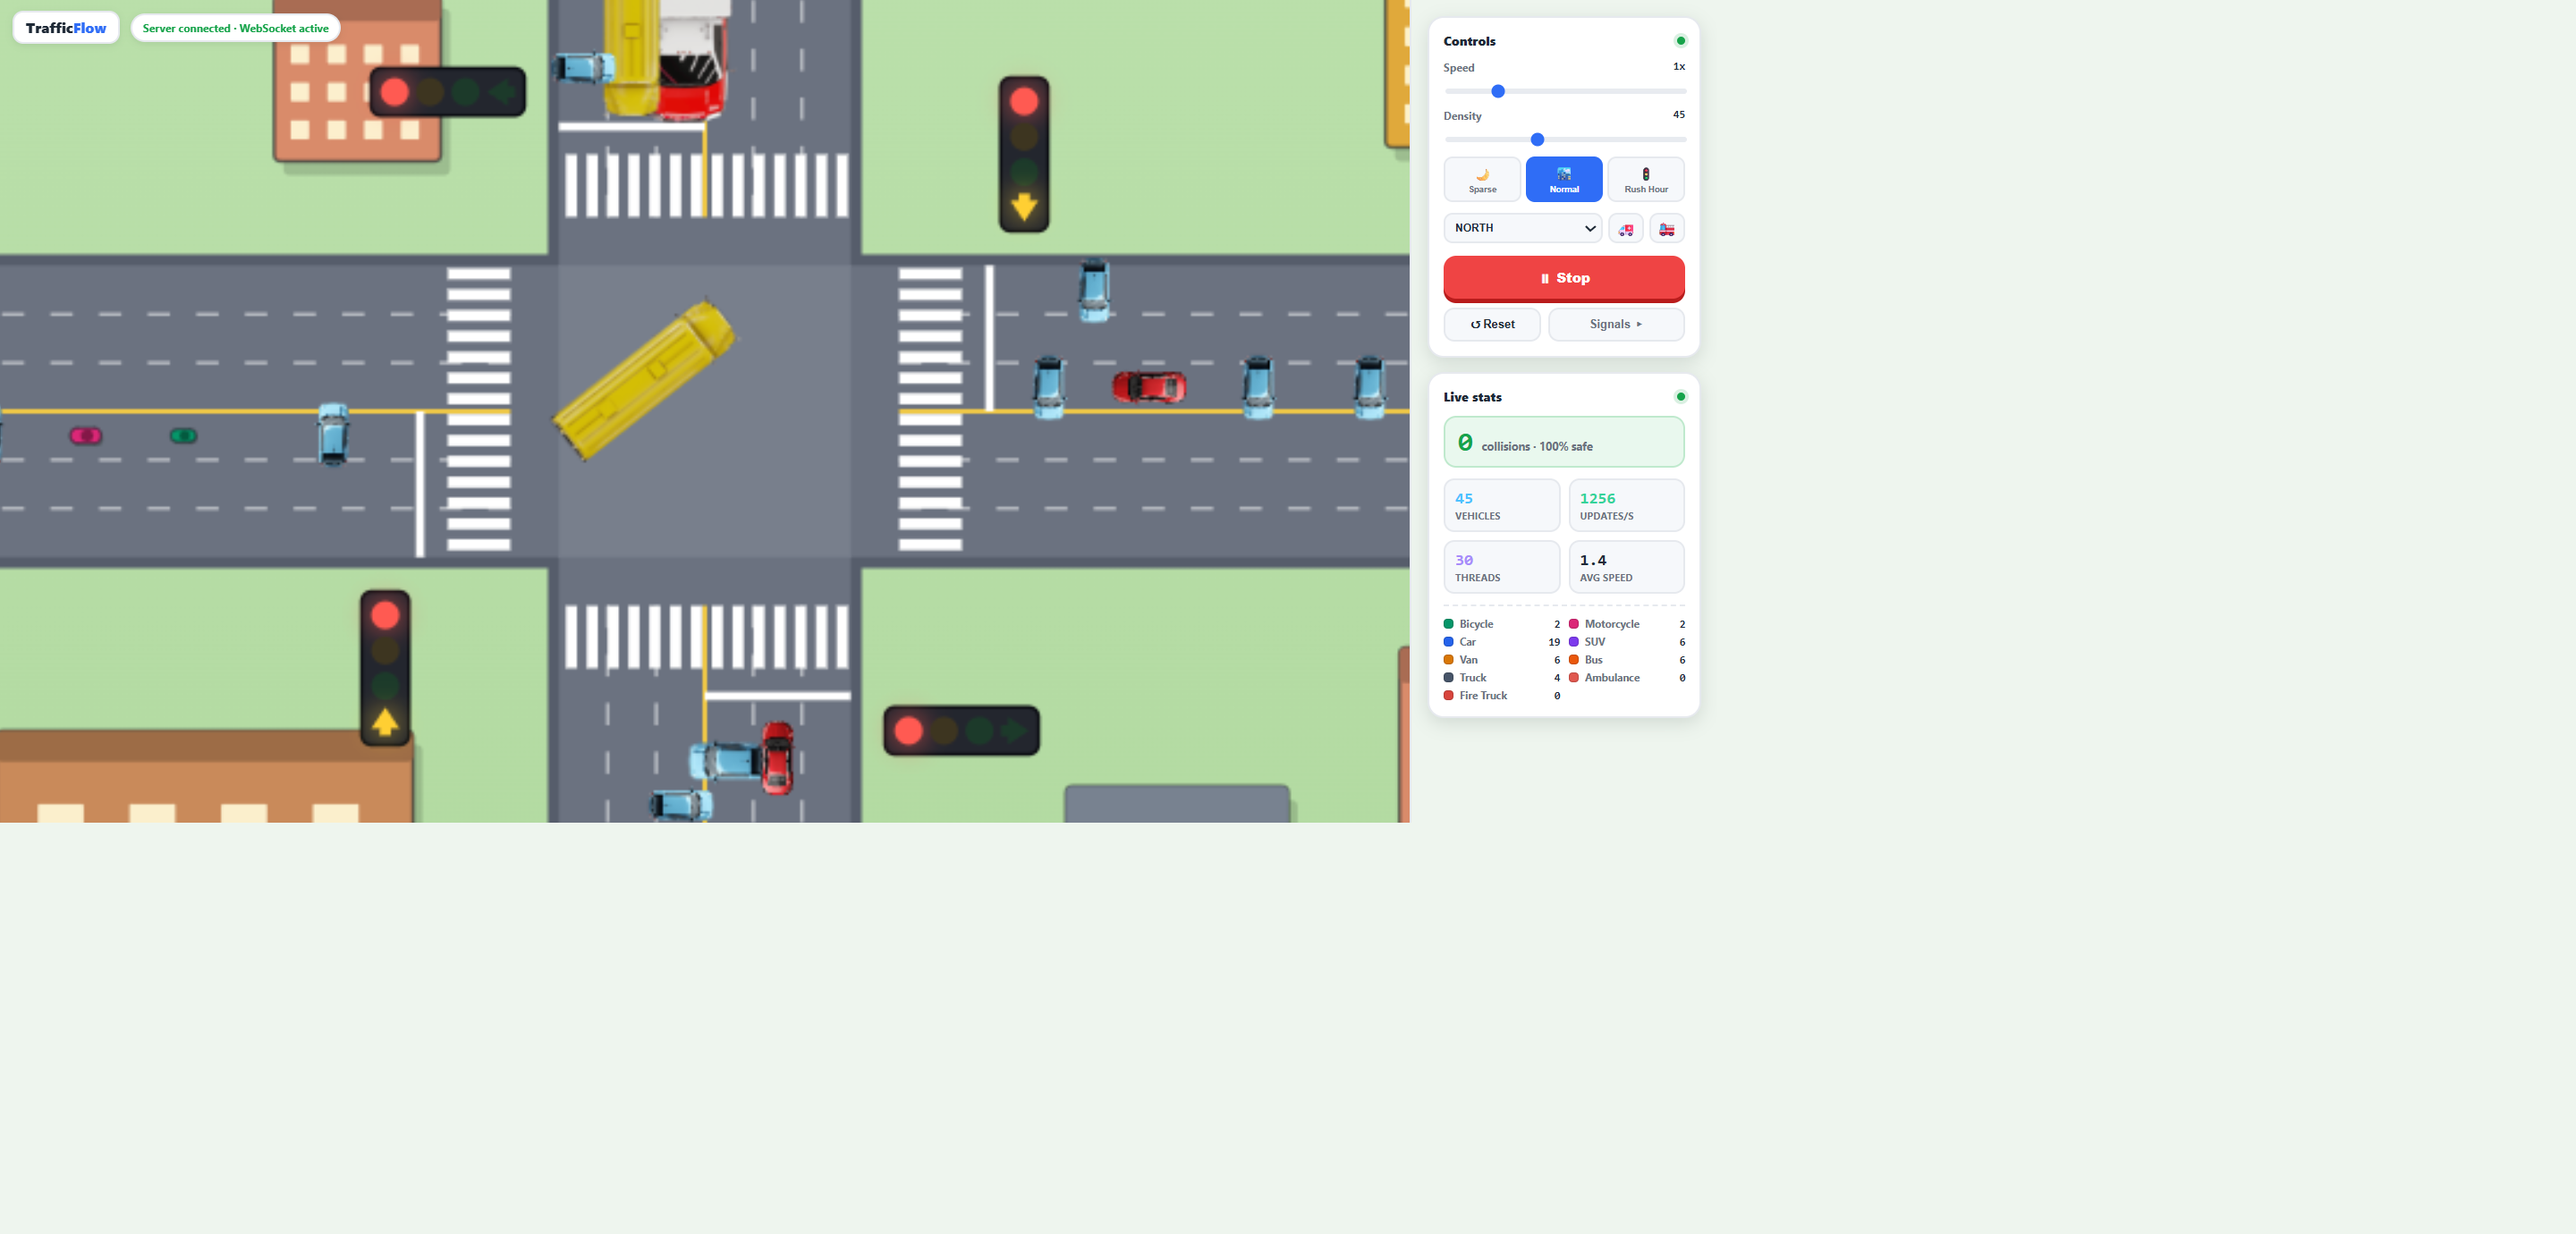
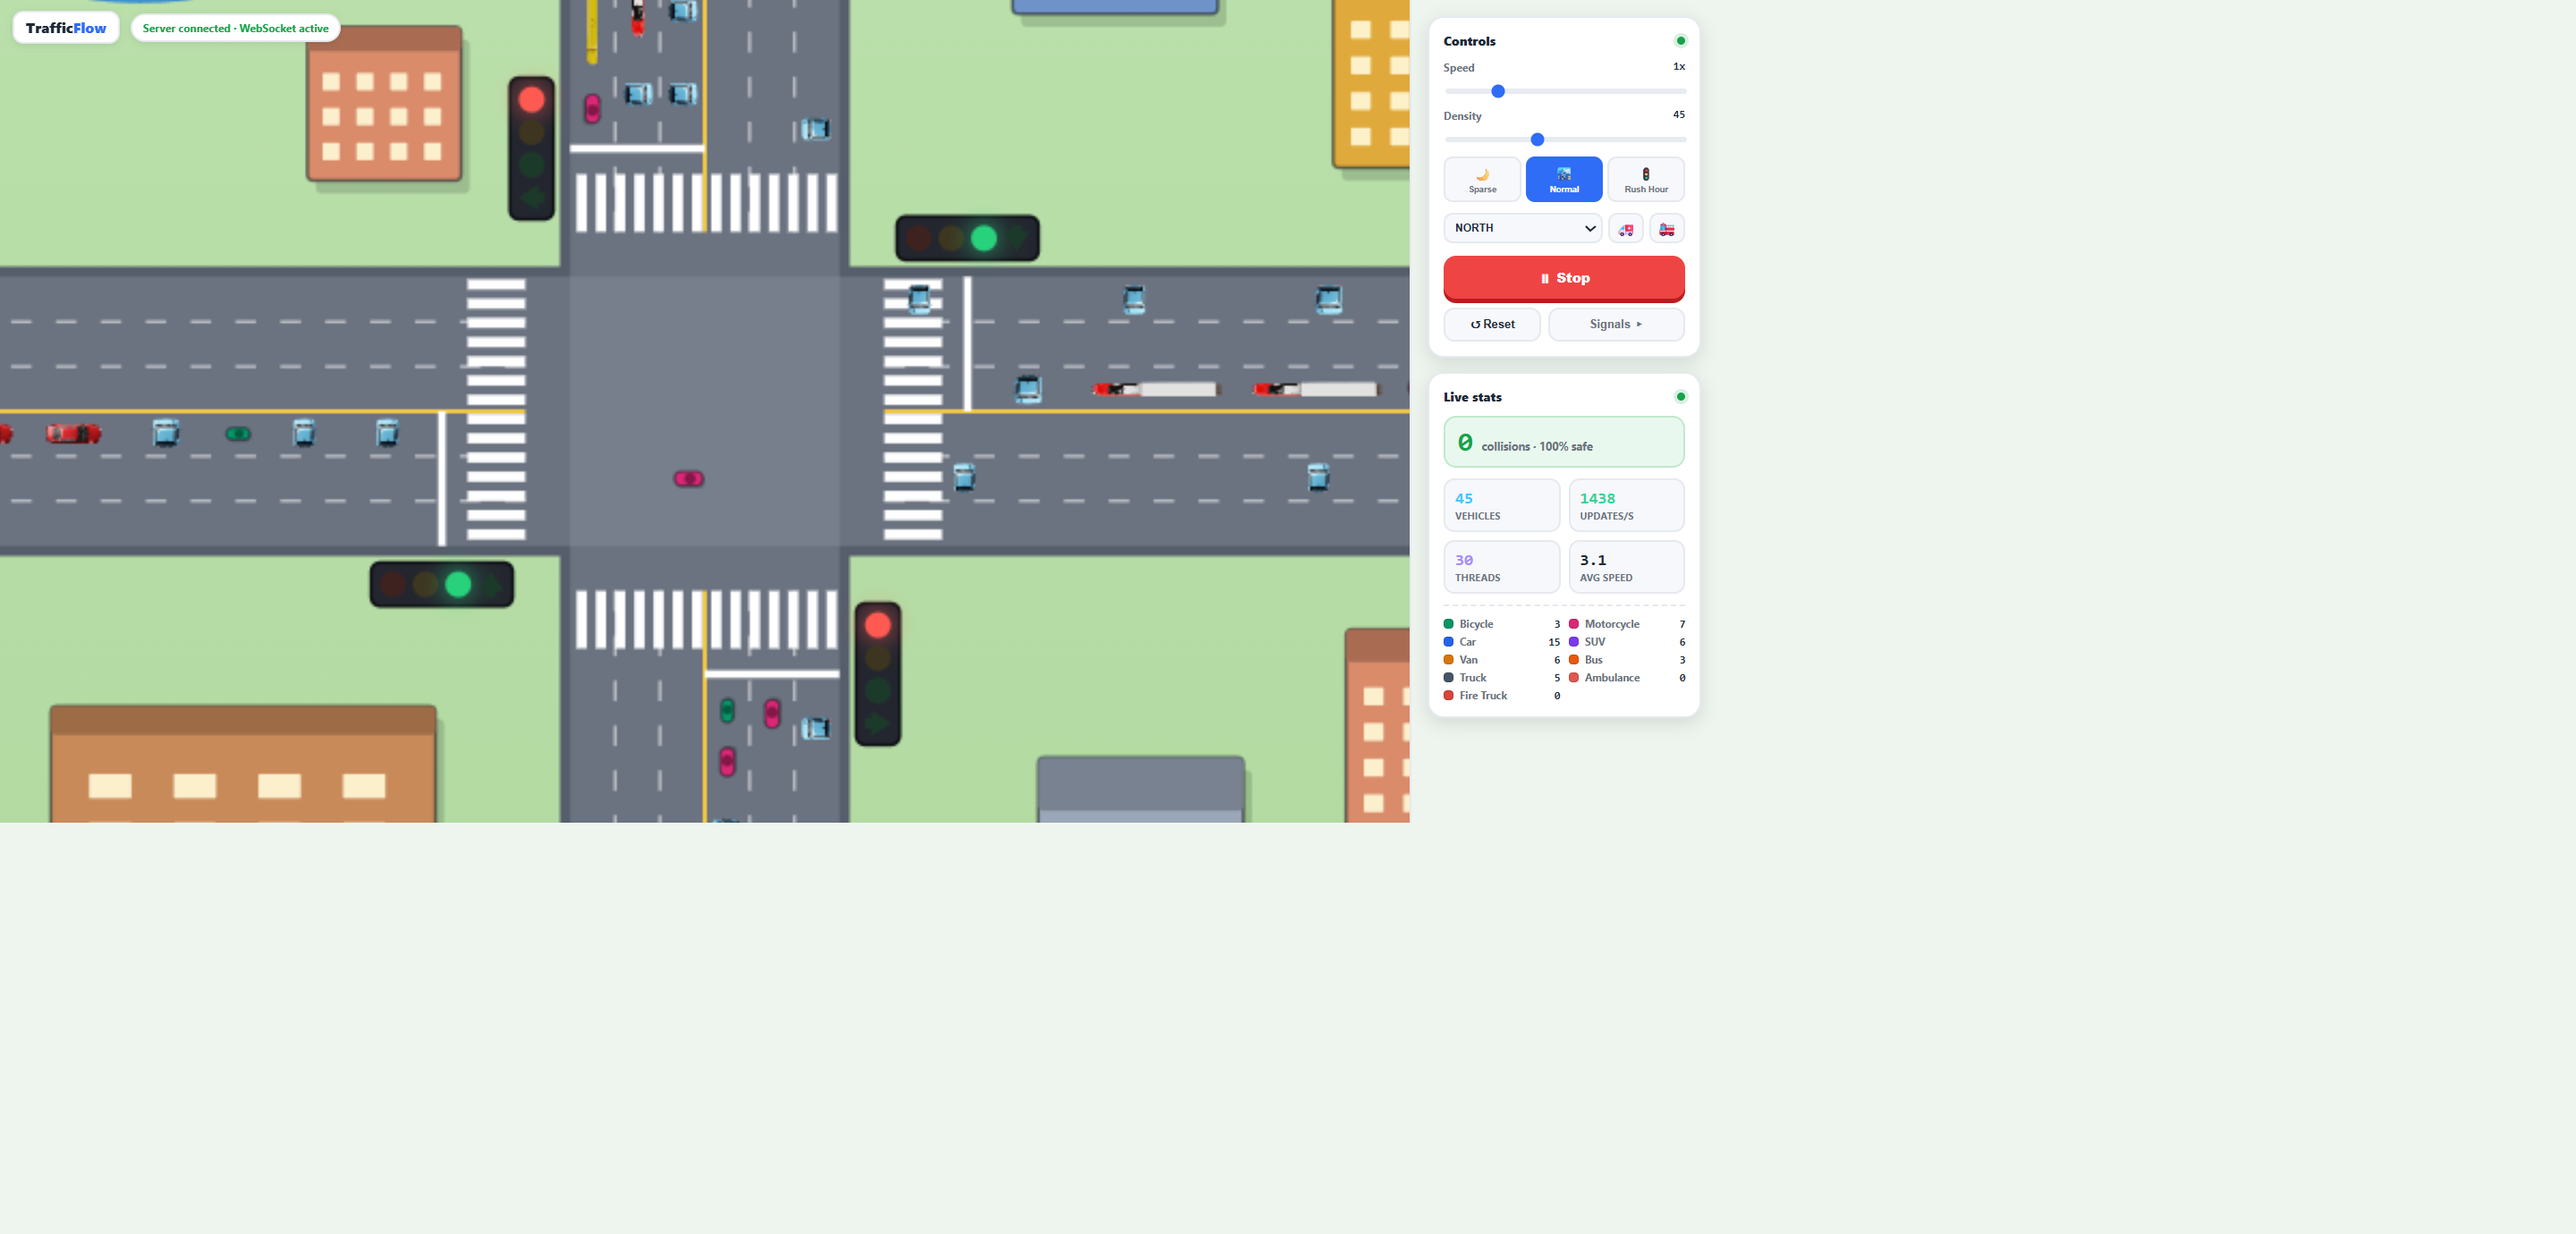
Shrink vehicles to fit one lane, lush scenery, livelier welcome
- Fix sprite sizing: fit lane width + fill the front-to-rear slot (trucks no longer
  span multiple lanes); sync backend bus/truck lengths (8 / 10.5)
- Much more nature: many varied trees, bushes, flower clusters
- Welcome page: animated road with vehicles driving across + shimmering title
- Compass rose overlay

diff --git a/frontend/src/render/draw.ts b/frontend/src/render/draw.ts
@@ -161,11 +161,47 @@ function drawScenery(ctx: CanvasRenderingContext2D, view: View) {
 
   drawPond(ctx, view, -44, 44, 36, 24);
 
-  const trees: [number, number][] = [
-    [22, 62], [46, 56], [64, 44], [24, -58], [48, -52], [64, -40],
-    [-26, -56], [-56, -44], [-58, 56], [-30, 60],
+  // Lots of trees of varied sizes for a lush, park-like feel.
+  const trees: [number, number, number][] = [
+    [22, 62, 1.1], [40, 70, 0.8], [52, 58, 1.2], [64, 46, 0.9], [70, 64, 1.0], [30, 50, 0.7],
+    [24, -56, 1.1], [42, -64, 0.85], [54, -50, 1.2], [66, -42, 0.9], [72, -60, 1.0], [38, -48, 0.7],
+    [-24, -52, 1.1], [-42, -62, 0.9], [-54, -44, 1.2], [-64, -56, 0.85], [-30, -68, 1.0], [-70, -40, 0.8],
+    [-58, 56, 1.1], [-30, 60, 0.9], [-66, 38, 1.0], [-48, 66, 0.85], [-72, 60, 0.8], [-20, 70, 0.7],
   ];
-  for (const [x, y] of trees) drawTree(ctx, view, x, y);
+  for (const [x, y, s] of trees) drawTree(ctx, view, x, y, s);
+
+  // Bushes and flower clusters scatter green/colour across the lawns.
+  const bushes: [number, number][] = [
+    [16, 50], [60, 36], [44, -38], [20, -44], [-18, -40], [-48, -54], [-20, 52], [-60, 48], [70, 30], [-70, 28],
+  ];
+  for (const [x, y] of bushes) drawBush(ctx, view, x, y);
+  const flowers: [number, number][] = [
+    [18, 58], [50, 64], [28, -50], [58, -58], [-26, -60], [-52, 60], [-38, 52], [62, 52],
+  ];
+  for (const [x, y] of flowers) drawFlowers(ctx, view, x, y);
+}
+
+function drawBush(ctx: CanvasRenderingContext2D, view: View, x: number, y: number) {
+  const [sx, sy] = worldToScreen(x, y, view);
+  const r = Math.max(3, 1.8 * view.scale);
+  ctx.fillStyle = 'rgba(30,40,30,0.14)';
+  ctx.beginPath(); ctx.ellipse(sx + 2, sy + r * 0.5, r * 1.1, r * 0.45, 0, 0, Math.PI * 2); ctx.fill();
+  ctx.fillStyle = '#56b863';
+  ctx.beginPath(); ctx.arc(sx - r * 0.5, sy, r * 0.7, 0, Math.PI * 2); ctx.fill();
+  ctx.beginPath(); ctx.arc(sx + r * 0.5, sy, r * 0.7, 0, Math.PI * 2); ctx.fill();
+  ctx.fillStyle = '#67ca72';
+  ctx.beginPath(); ctx.arc(sx, sy - r * 0.3, r * 0.75, 0, Math.PI * 2); ctx.fill();
+}
+
+function drawFlowers(ctx: CanvasRenderingContext2D, view: View, x: number, y: number) {
+  const [sx, sy] = worldToScreen(x, y, view);
+  const r = Math.max(1.5, 0.55 * view.scale);
+  const cols = ['#ff6b9d', '#ffd23f', '#ff8a5b', '#c77dff'];
+  const spots: [number, number][] = [[0, 0], [r * 2.4, r * 0.8], [r * 1.2, -r * 1.8], [-r * 1.8, r * 1.2], [-r * 1.4, -r * 1.4]];
+  spots.forEach((p, i) => {
+    ctx.fillStyle = cols[i % cols.length];
+    ctx.beginPath(); ctx.arc(sx + p[0], sy + p[1], r, 0, Math.PI * 2); ctx.fill();
+  });
 }
 
 function drawBuilding(ctx: CanvasRenderingContext2D, view: View, x: number, y: number, w: number, h: number, color: string) {
@@ -197,9 +233,9 @@ function drawBuilding(ctx: CanvasRenderingContext2D, view: View, x: number, y: n
   ctx.restore();
 }
 
-function drawTree(ctx: CanvasRenderingContext2D, view: View, x: number, y: number) {
+function drawTree(ctx: CanvasRenderingContext2D, view: View, x: number, y: number, scale = 1) {
   const [sx, sy] = worldToScreen(x, y, view);
-  const r = Math.max(5, 3.2 * view.scale);
+  const r = Math.max(4, 3.2 * view.scale * scale);
   // shadow
   ctx.fillStyle = 'rgba(30,40,30,0.16)';
   ctx.beginPath(); ctx.ellipse(sx + 3, sy + r * 0.7, r * 1.05, r * 0.5, 0, 0, Math.PI * 2); ctx.fill();
@@ -290,12 +326,17 @@ function drawStopLines(ctx: CanvasRenderingContext2D, view: View) {
 function drawSignals(ctx: CanvasRenderingContext2D, view: View, signals: SignalState) {
   const h = LAYOUT.half;
   const rh = roadHalfWidthM();
-  // N/S heads read horizontally; E/W heads read vertically (matches real layout).
+  // Tuck each head into the corner of the intersection: just off the road edge
+  // (lat), level with the stop line (along), on the approaching driver's right.
+  // Each head runs PARALLEL to its road so it hugs the curb instead of poking
+  // across the asphalt -> N/S heads are vertical, E/W heads are horizontal.
+  const lat = rh + 3; // a few metres onto the corner sidewalk, clear of the road
+  const along = h + STOP_SETBACK; // level with the stop line
   const heads: { ax: 'NORTH' | 'SOUTH' | 'EAST' | 'WEST'; x: number; y: number; horizontal: boolean }[] = [
-    { ax: 'NORTH', x: -rh - 8, y: h + 9, horizontal: true },
-    { ax: 'SOUTH', x: rh + 8, y: -h - 9, horizontal: true },
-    { ax: 'EAST', x: h + 9, y: rh + 8, horizontal: false },
-    { ax: 'WEST', x: -h - 9, y: -rh - 8, horizontal: false },
+    { ax: 'NORTH', x: -lat, y: along, horizontal: false },
+    { ax: 'SOUTH', x: lat, y: -along, horizontal: false },
+    { ax: 'EAST', x: along, y: lat, horizontal: true },
+    { ax: 'WEST', x: -along, y: -lat, horizontal: true },
   ];
   const R = Math.max(3.5, 1.0 * view.scale);
   const gap = R * 0.55;

diff --git a/frontend/src/App.css b/frontend/src/App.css
@@ -51,10 +51,12 @@
 }
 .welcome-title {
   font-size: clamp(48px, 9vw, 100px); font-weight: 900; letter-spacing: -2px; margin: 0 0 16px; line-height: 1;
-  background: linear-gradient(120deg, #2f6df6 10%, #18a558 90%);
+  background: linear-gradient(120deg, #2f6df6 0%, #18a558 35%, #2f6df6 70%, #18a558 100%);
+  background-size: 220% auto;
   -webkit-background-clip: text; background-clip: text; -webkit-text-fill-color: transparent;
-  animation: fadeInUp 0.6s ease 0.05s both;
+  animation: fadeInUp 0.6s ease 0.05s both, shimmer 5s linear infinite;
 }
+@keyframes shimmer { to { background-position: 220% center; } }
 .welcome-title span { -webkit-text-fill-color: transparent; }
 .welcome-tag { color: #4b5563; font-size: 17px; line-height: 1.6; max-width: 560px; margin: 0 auto 32px; animation: fadeInUp 0.6s ease 0.12s both; }
 .welcome-stats { display: flex; flex-wrap: wrap; justify-content: center; gap: 12px; margin-bottom: 36px; animation: fadeInUp 0.6s ease 0.18s both; }

diff --git a/frontend/src/render/vehicleTypes.ts b/frontend/src/render/vehicleTypes.ts
@@ -13,8 +13,8 @@ export const VEHICLE_TYPES: VehicleTypeInfo[] = [
   { label: 'Car', color: '#2563eb', length: 4.5, width: 2.0, emergency: false },
   { label: 'SUV', color: '#7c3aed', length: 4.9, width: 2.1, emergency: false },
   { label: 'Van', color: '#d97706', length: 5.5, width: 2.2, emergency: false },
-  { label: 'Bus', color: '#ea580c', length: 12.0, width: 2.5, emergency: false },
-  { label: 'Truck', color: '#475569', length: 16.5, width: 2.6, emergency: false },
+  { label: 'Bus', color: '#ea580c', length: 8.0, width: 2.4, emergency: false },
+  { label: 'Truck', color: '#475569', length: 10.5, width: 2.5, emergency: false },
   { label: 'Ambulance', color: '#e0584f', length: 6.0, width: 2.3, emergency: true },
   { label: 'Fire Truck', color: '#d8453d', length: 10.0, width: 2.5, emergency: true },
 ];

diff --git a/frontend/src/WelcomePage.tsx b/frontend/src/WelcomePage.tsx
@@ -47,6 +47,14 @@ export default function WelcomePage({ onLaunch }: Props) {
 
         <div className="welcome-foot">Spring Boot · 30 threads · STOMP/WebSocket · React + Canvas</div>
       </div>
+
+      <div className="welcome-road">
+        <span className="w-veh" style={{ animationDelay: '0s' }}>🚗</span>
+        <span className="w-veh" style={{ animationDelay: '1.4s' }}>🚙</span>
+        <span className="w-veh" style={{ animationDelay: '2.8s' }}>🚌</span>
+        <span className="w-veh" style={{ animationDelay: '4.2s' }}>🚑</span>
+        <span className="w-veh" style={{ animationDelay: '5.4s' }}>🚓</span>
+      </div>
     </div>
   );
 }

diff --git a/backend/src/main/java/com/trafficflow/model/VehicleType.java b/backend/src/main/java/com/trafficflow/model/VehicleType.java
@@ -17,8 +17,8 @@ public enum VehicleType {
     CAR       ("Car",         4.5,  13.9,  2.5,   3.0,  "#60a5fa", false),
     SUV       ("SUV",         4.9,  13.0,  2.2,   2.8,  "#a78bfa", false),
     VAN       ("Van",         5.5,  12.0,  1.8,   2.5,  "#fbbf24", false),
-    BUS       ("Bus",        12.0,  11.0,  1.2,   2.0,  "#fb923c", false),
-    TRUCK     ("Truck",      16.5,  10.0,  1.0,   1.8,  "#94a3b8", false),
+    BUS       ("Bus",         8.0,  11.0,  1.2,   2.0,  "#fb923c", false),
+    TRUCK     ("Truck",      10.5,  10.0,  1.0,   1.8,  "#94a3b8", false),
     AMBULANCE ("Ambulance",   6.0,  18.0,  3.0,   3.5,  "#ef4444", true),
     FIRETRUCK ("Fire Truck", 10.0,  15.0,  1.6,   2.5,  "#dc2626", true);
 
